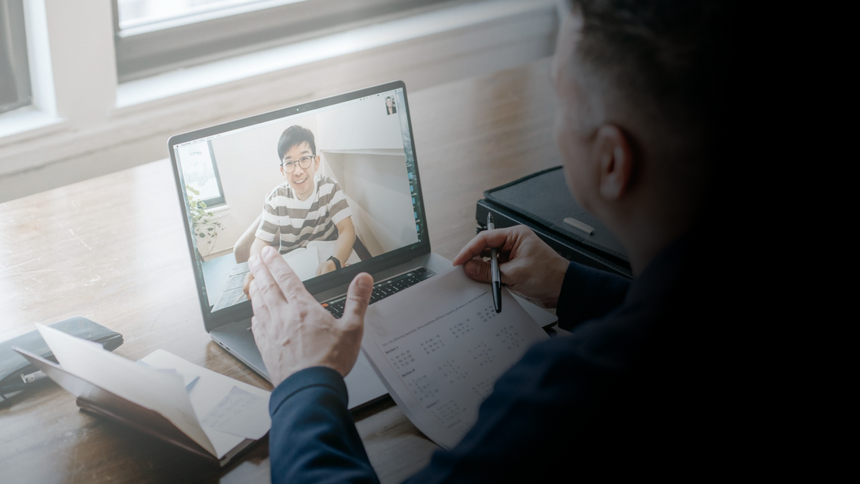
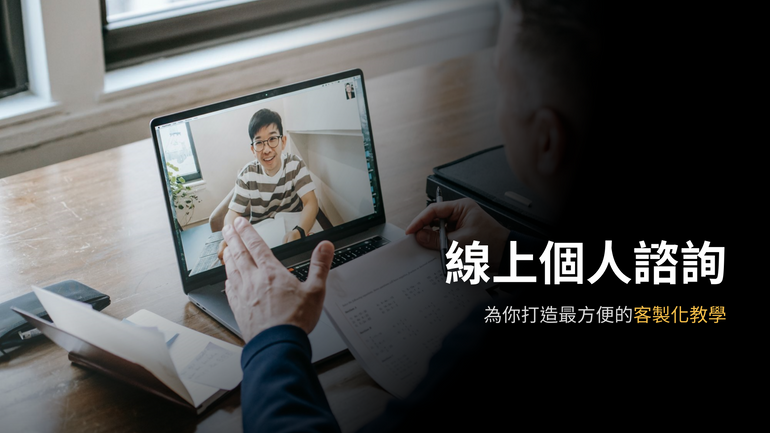
12/17 morning

diff --git a/asset/js/CampSignUp.js b/asset/js/CampSignUp.js
@@ -24,7 +24,7 @@ var info_array = [];
 var signup = db.collection("camp_SignUp");
 signup.get().then(querySnapshot => {
 querySnapshot.forEach(doc => {
-info_array.push([doc.id, doc.data().name, doc.data().feature1, doc.data().feature2, doc.data().feature3, doc.data().teacher1, doc.data().teacher2, doc.data().teacher3, doc.data().date, doc.data().people, doc.data().money_one, doc.data().money_two, doc.data().deadline, doc.data().step3, doc.data().image_title, doc.data().image_schedule1, doc.data().image_schedule2, doc.data().image_teacher1, doc.data().image_teacher2, doc.data().image_teacher3, doc.data().datetime]);
+info_array.push([doc.id,doc.data().name, doc.data().feature1, doc.data().feature2, doc.data().feature3, doc.data().teacher1, doc.data().teacher2, doc.data().teacher3, doc.data().date, doc.data().people, doc.data().money_one, doc.data().money_two, doc.data().deadline, doc.data().step3, doc.data().image_title, doc.data().image_schedule1, doc.data().image_schedule2, doc.data().image_teacher1, doc.data().image_teacher2, doc.data().image_teacher3, doc.data().datetime]);
 });
 
 var id = -1; //這裡是代表是哪個營隊(DB中的第幾個)
@@ -35,8 +35,6 @@ info_array.sort((a, b) => a[20] - b[20]);
 
 
 
-
-const Name = document.getElementById('name');
 const Feature1 = document.getElementById('feature1');
 const Feature2 = document.getElementById('feature2');
 const Feature3 = document.getElementById('feature3');
@@ -55,7 +53,6 @@ const Img_schedule2 = document.getElementById('img_schedule2');
 const Img_teacher1 = document.getElementById('img_teacher1');
 const Img_teacher2 = document.getElementById('img_teacher2');
 const Img_teacher3 = document.getElementById('img_teacher3');
-Name.innerHTML = info_array[id][1];
 Feature1.innerHTML = info_array[id][2];
 Feature2.innerHTML = info_array[id][3];
 Feature3.innerHTML = info_array[id][4];

diff --git a/consult.html b/consult.html
@@ -12,8 +12,8 @@
 <body style="background-color:#ffbd59;">
     <script src="asset/js/nav.js"></script>
     <div class="title experienceBG" style="height: 100%">
-        <div style="margin-top: 39%;padding-left: 70%; padding-bottom: 5%;">
-            <button class="experienceButton" style="font-weight: 900; font-size: 3vw; margin-top: 5%;">馬上體驗 <span style="color: #f88411;">>>></span></button>
+        <div style="margin-top: 40%;padding-left: 70%; padding-bottom: 5%;">
+            <button class="experienceButton" style="font-weight: 900; font-size: 3vw;">馬上體驗 <span style="color: #f88411;">>>></span></button>
         </div>
     </div>
     
@@ -200,10 +200,12 @@ div .title{
 
 /*==========體驗平台圖片==========*/
 .experienceBG {
-    background-image: url('asset/img/consult/experience5.png');
+    background-image: url('asset/img/consult/experience.png');
     overflow: hidden;
     background-position: center;
     background-size: cover;
+    max-width: 100%;
+    height: auto;
 }
 
 .experienceButton {

diff --git a/camp_SignUp.html b/camp_SignUp.html
@@ -22,7 +22,6 @@
 <body style="background-color:#ffbd59;">
     <script src="asset/js/nav.js"></script>
     <div style="overflow: hidden; padding: 3%; height: 80%; width: 100%; margin: 0 auto;"><img id="img_title" style="max-width: 60%; height:auto; object-fit: cover;" ></div>
-    <div class="title big_text" style="padding-bottom: 2%;"><span id='name' style="border: 5px solid #FFF"></span></div>
     <div style="height: 110%; width: 100%;">
         <div style="float: left; margin-left: 13%; margin-top: 1%;height: 90%; width: 35%;">
             <div class="rounded_border" style="height: 100%;">
